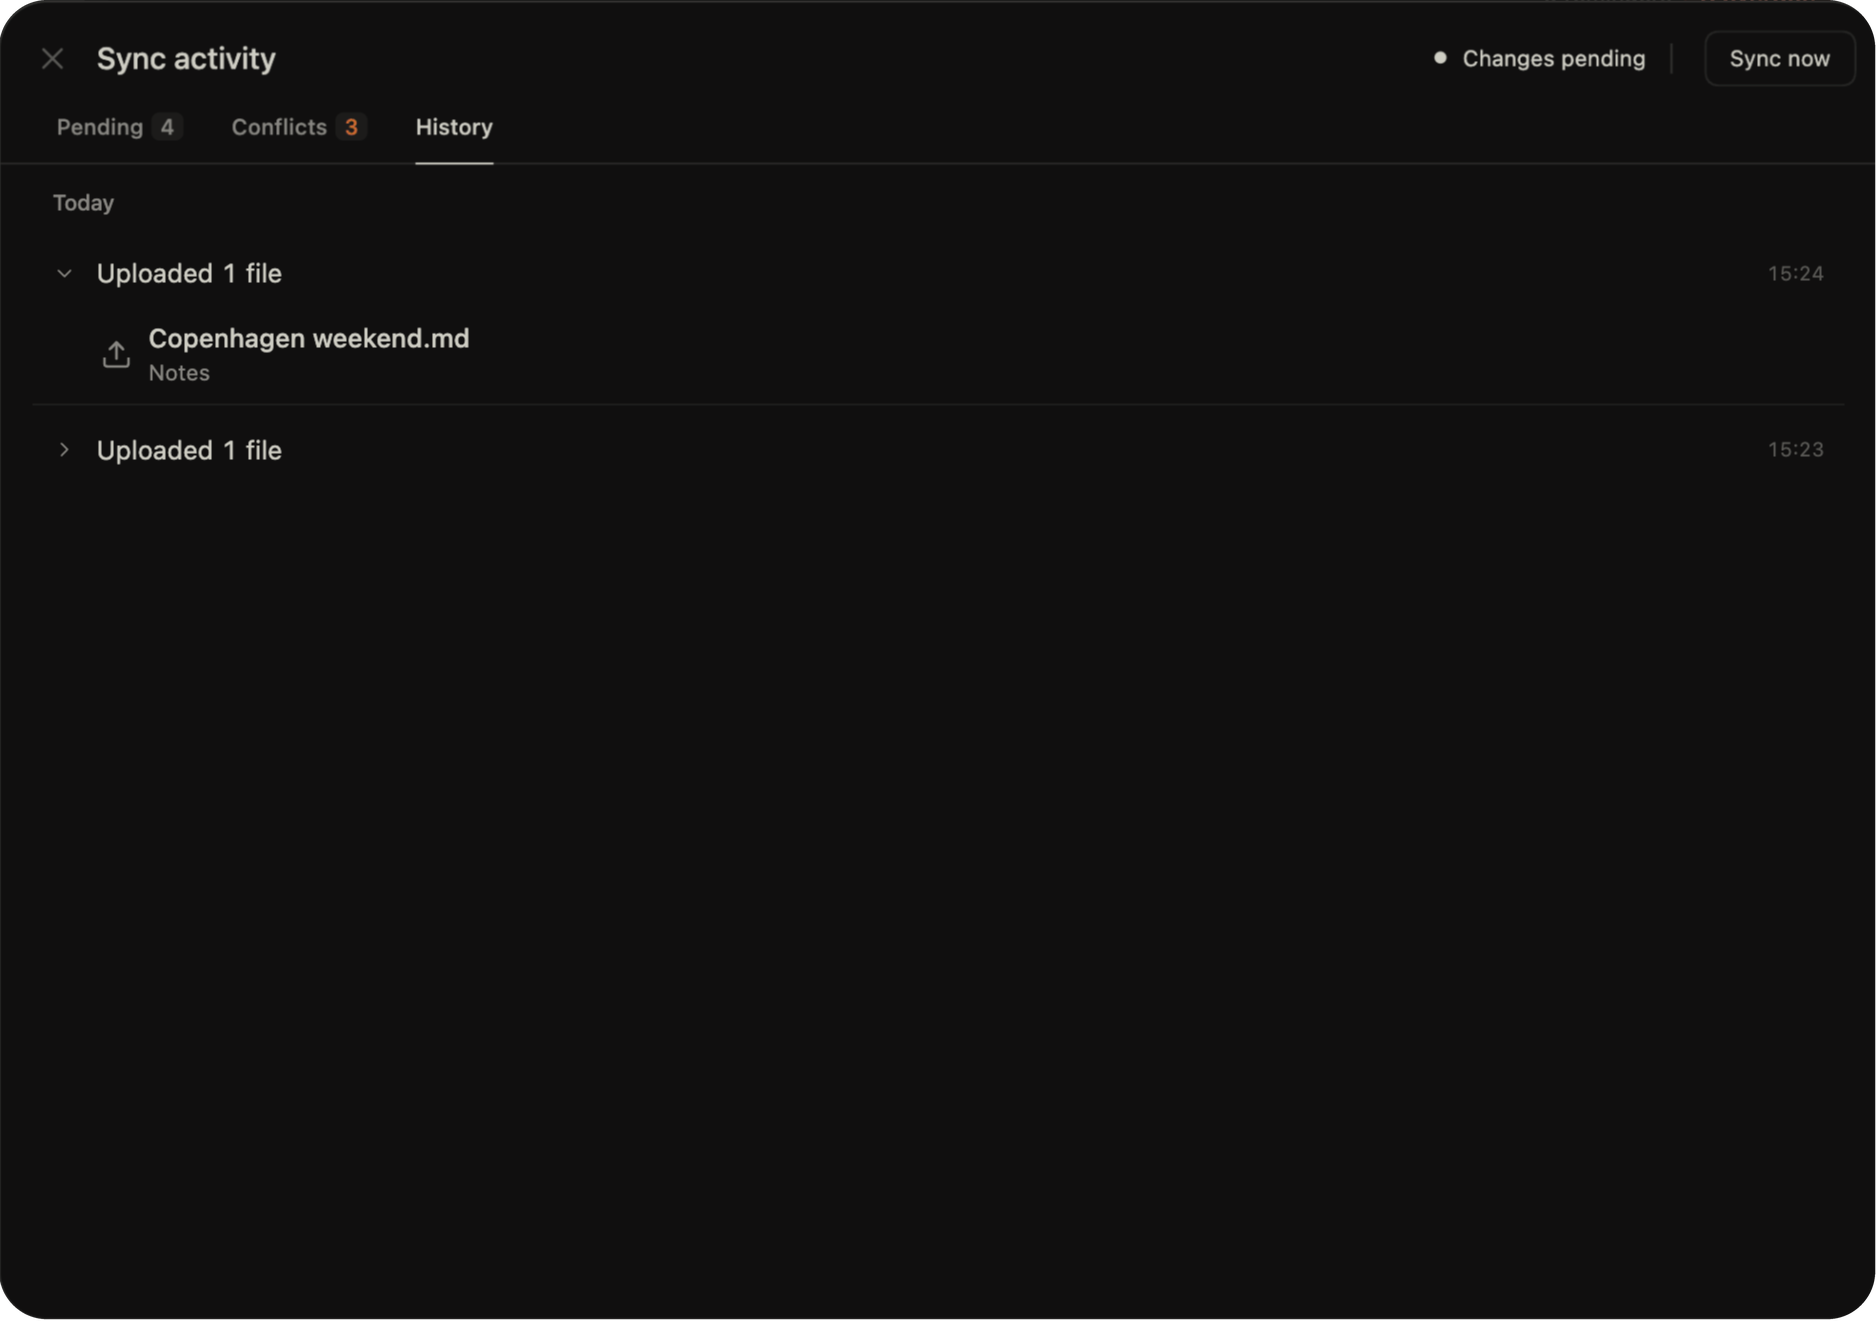
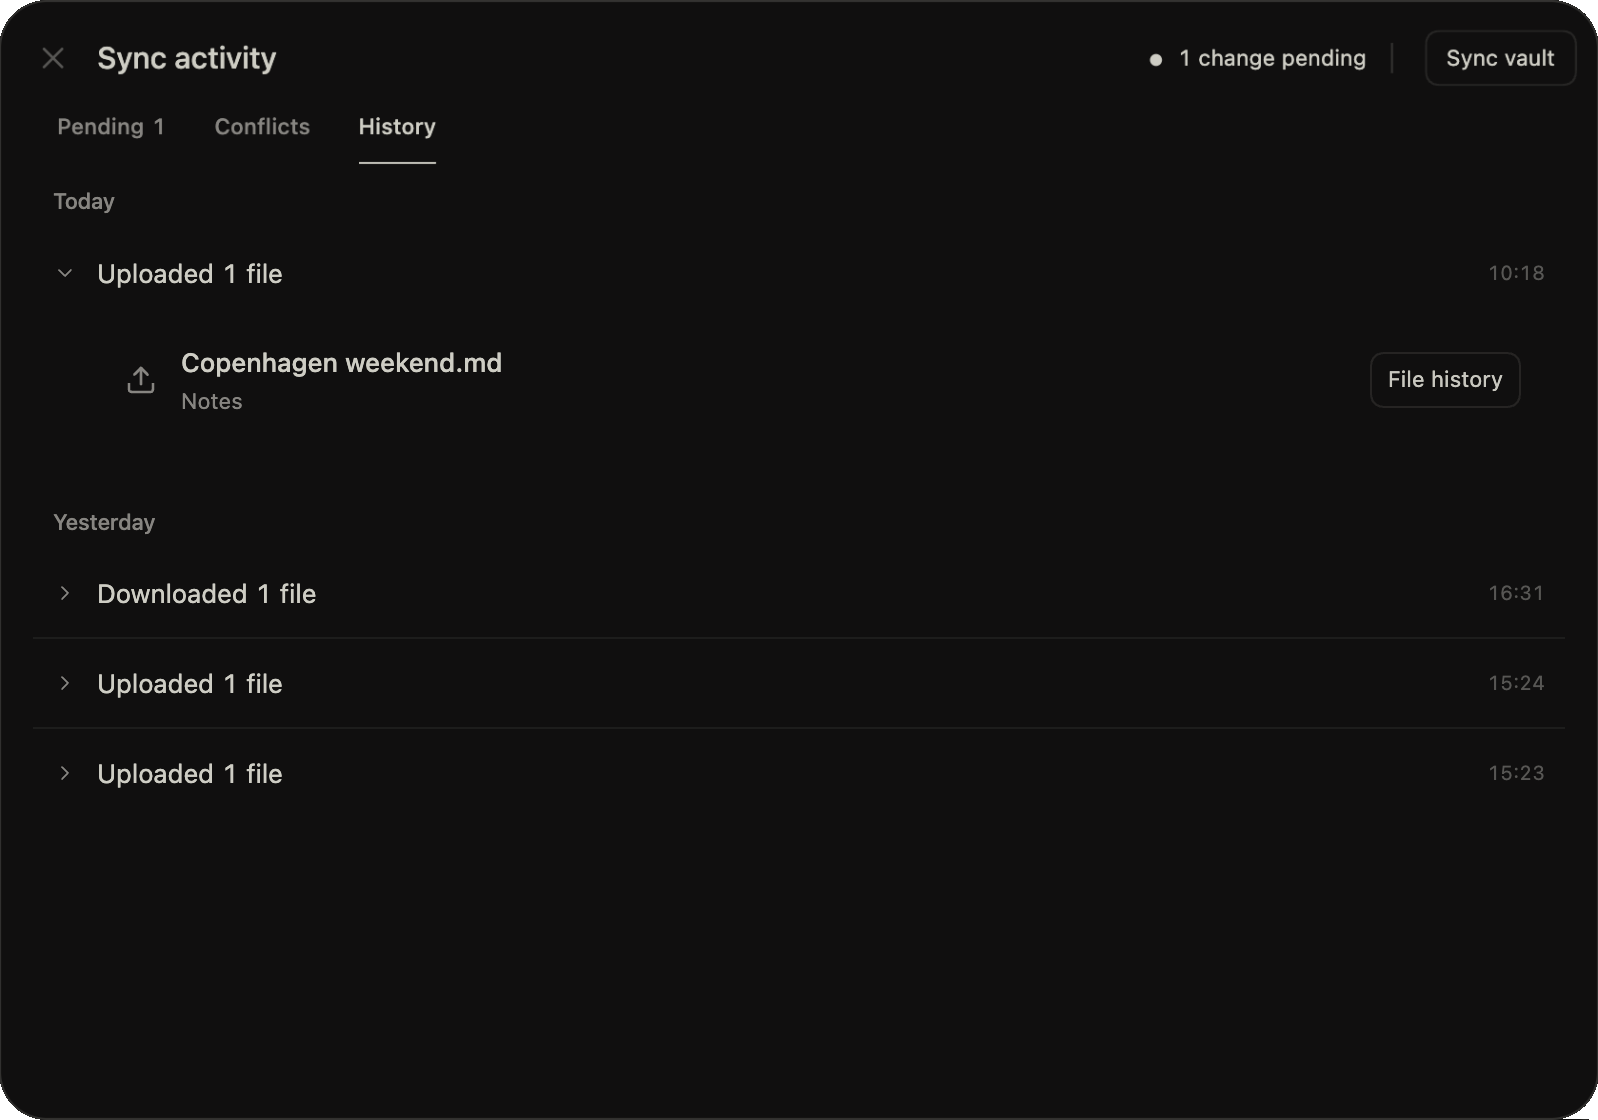
chore: refresh website screenshots and showcase file history

diff --git a/site/website-options/canvas/index.html b/site/website-options/canvas/index.html
@@ -37,7 +37,7 @@
 <section class="section sync-showcase wrap" id="sync" aria-label="Sync"><span id="sync-activity"></span>
 <figure class="reminder-recording"><figcaption><h2>Your notes, on every device.</h2><p>Keep writing in Obsidian on desktop or mobile. Crate syncs your vault between devices through your own Cloudflare account.</p></figcaption><div class="recording-media"><video controlslist="nofullscreen noremoteplayback" disablepictureinpicture disableremoteplayback id="crate-note-sync" controls muted playsinline preload="none" width="2748" height="1714" poster="../../assets/screenshots/plugin-sync-poster.jpg?v=14880dd3" aria-label="Your notes sync automatically."><source src="../../assets/videos/plugin-sync.mp4" type="video/mp4"></video>
 </div></figure>
-<div class="subscreens sync-subscreens"><div class="subscreens-grid"><figure class="subscreen"><div class="desktop-crop"><img src="../../assets/screenshots/plugin-sync-activity.png?v=bf3939b0" width="1877" height="1322" loading="lazy" alt="Pending sync activity with selected files and a preview of added and removed text."></div><figcaption><h3>Pending changes</h3><p>Compare edits and choose which files to sync.</p></figcaption></figure><figure class="subscreen"><div class="desktop-crop"><img src="../../assets/screenshots/plugin-sync-conflicts.png?v=a82b522d" width="1878" height="1322" loading="lazy" alt="The Conflicts tab listing three saved conflict copies with Review buttons."></div><figcaption><h3>Conflicts</h3><p>See which files need your attention and open them for review.</p></figcaption></figure><figure class="subscreen"><div class="desktop-crop"><img src="../../assets/screenshots/plugin-sync-conflict-resolution.png?v=6a12bdd2" width="2078" height="1273" loading="lazy" alt="Conflict review comparing the current file with a saved copy and showing resolution options."></div><figcaption><h3>Resolve conflicts</h3><p>Compare versions side by side. Keep one, keep both, or edit a combined result.</p></figcaption></figure><figure class="subscreen"><div class="desktop-crop"><img src="../../assets/screenshots/plugin-sync-history.png?v=5f9be24d" width="1876" height="1321" loading="lazy" alt="Sync history showing recent uploads and an expanded file entry."></div><figcaption><h3>Sync history</h3><p>Check recent transfers and the files included in each sync.</p></figcaption></figure></div></div><aside class="recovery-feature"><div class="recovery-window" aria-label="30-day recovery window"><strong>30</strong><span>days to recover</span></div><div><h3>Recover an earlier copy.</h3><p>Remote files replaced or deleted by sync are kept for 30 days. Open <strong>Restore remote file</strong> in Crate settings to recover a copy.</p><p class="recovery-note">Sync is not a backup. Keep a separate backup of your vault.</p></div></aside></section>
+<div class="subscreens sync-subscreens"><div class="subscreens-grid"><figure class="subscreen"><div class="desktop-crop"><img src="../../assets/screenshots/plugin-sync-pending-changes.png?v=ba7601e0" width="3024" height="1898" loading="lazy" alt="Pending sync activity with selected files and a preview of added and removed text."></div><figcaption><h3>Pending changes</h3><p>Compare edits and choose which files to sync.</p></figcaption></figure><figure class="subscreen"><div class="desktop-crop"><img src="../../assets/screenshots/plugin-sync-conflicts.png?v=a82b522d" width="1878" height="1322" loading="lazy" alt="The Conflicts tab listing three saved conflict copies with Review buttons."></div><figcaption><h3>Conflicts</h3><p>See which files need your attention and open them for review.</p></figcaption></figure><figure class="subscreen"><div class="desktop-crop"><img src="../../assets/screenshots/plugin-sync-conflict-resolution.png?v=6a12bdd2" width="2078" height="1273" loading="lazy" alt="Conflict review comparing the current file with a saved copy and showing resolution options."></div><figcaption><h3>Resolve conflicts</h3><p>Compare versions side by side. Keep one, keep both, or edit a combined result.</p></figcaption></figure><figure class="subscreen"><div class="desktop-crop"><img src="../../assets/screenshots/plugin-sync-history.png?v=d0b472a2" width="3024" height="1898" loading="lazy" alt="Sync history showing recent uploads and an expanded file entry."></div><figcaption><h3>Sync history</h3><p>Check recent transfers and the files included in each sync.</p></figcaption></figure><figure class="subscreen"><div class="desktop-crop"><img src="../../assets/screenshots/plugin-file-history.png?v=f4b816ef" width="3024" height="1898" loading="lazy" alt="File history comparing a saved version of Copenhagen weekend with the current local file."></div><figcaption><h3>File history</h3><p>Compare earlier versions with your current file and restore a saved copy.</p></figcaption></figure></div></div><aside class="recovery-feature"><div class="recovery-window" aria-label="30-day recovery window"><strong>30</strong><span>days to recover</span></div><div><h3>Recover an earlier copy.</h3><p>Remote files replaced or deleted by sync are kept for 30 days. Open <strong>Restore remote file</strong> in Crate settings to recover a copy.</p><p class="recovery-note">Sync is not a backup. Keep a separate backup of your vault.</p></div></aside></section>
 
 <section class="section sync-showcase wrap" id="reminders">
 <figure class="reminder-recording"><figcaption><h2>Write it down. Come back to it.</h2><p>Add reminders while you work in Obsidian. Write “tomorrow at 12” and use # to choose a project.</p></figcaption><div class="recording-media"><video controlslist="nofullscreen noremoteplayback" disablepictureinpicture disableremoteplayback id="crate-reminder-entry" controls muted playsinline preload="none" width="2704" height="1684" poster="../../assets/screenshots/plugin-reminders-natural-language-poster.jpg?v=fbbcd1fd" aria-label="Add reminders in natural language."><source src="../../assets/videos/plugin-reminders-natural-language.mp4" type="video/mp4"></video>
